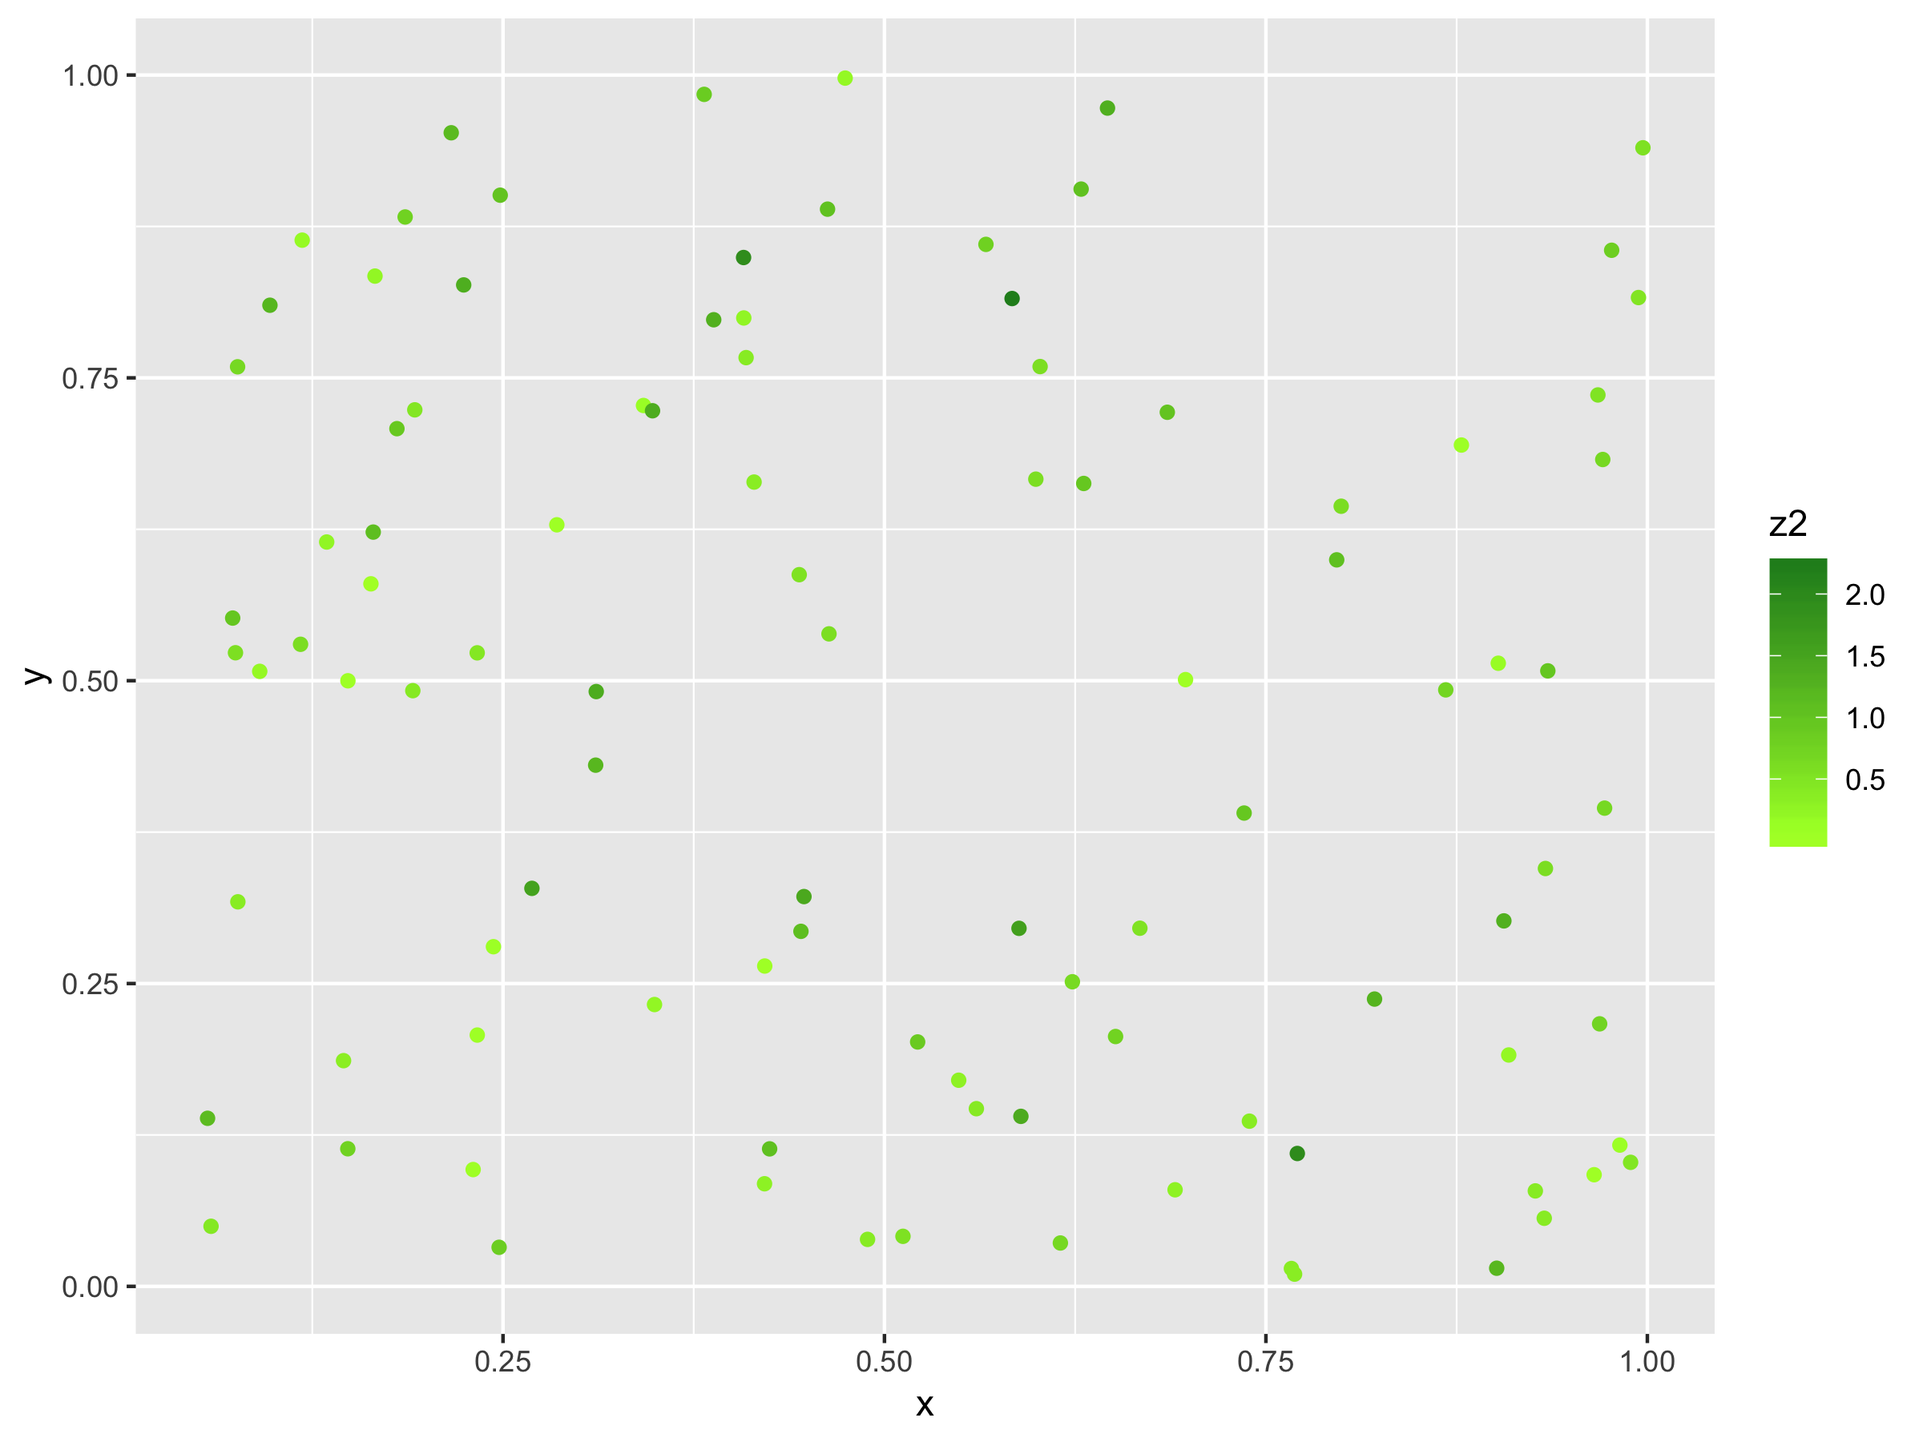
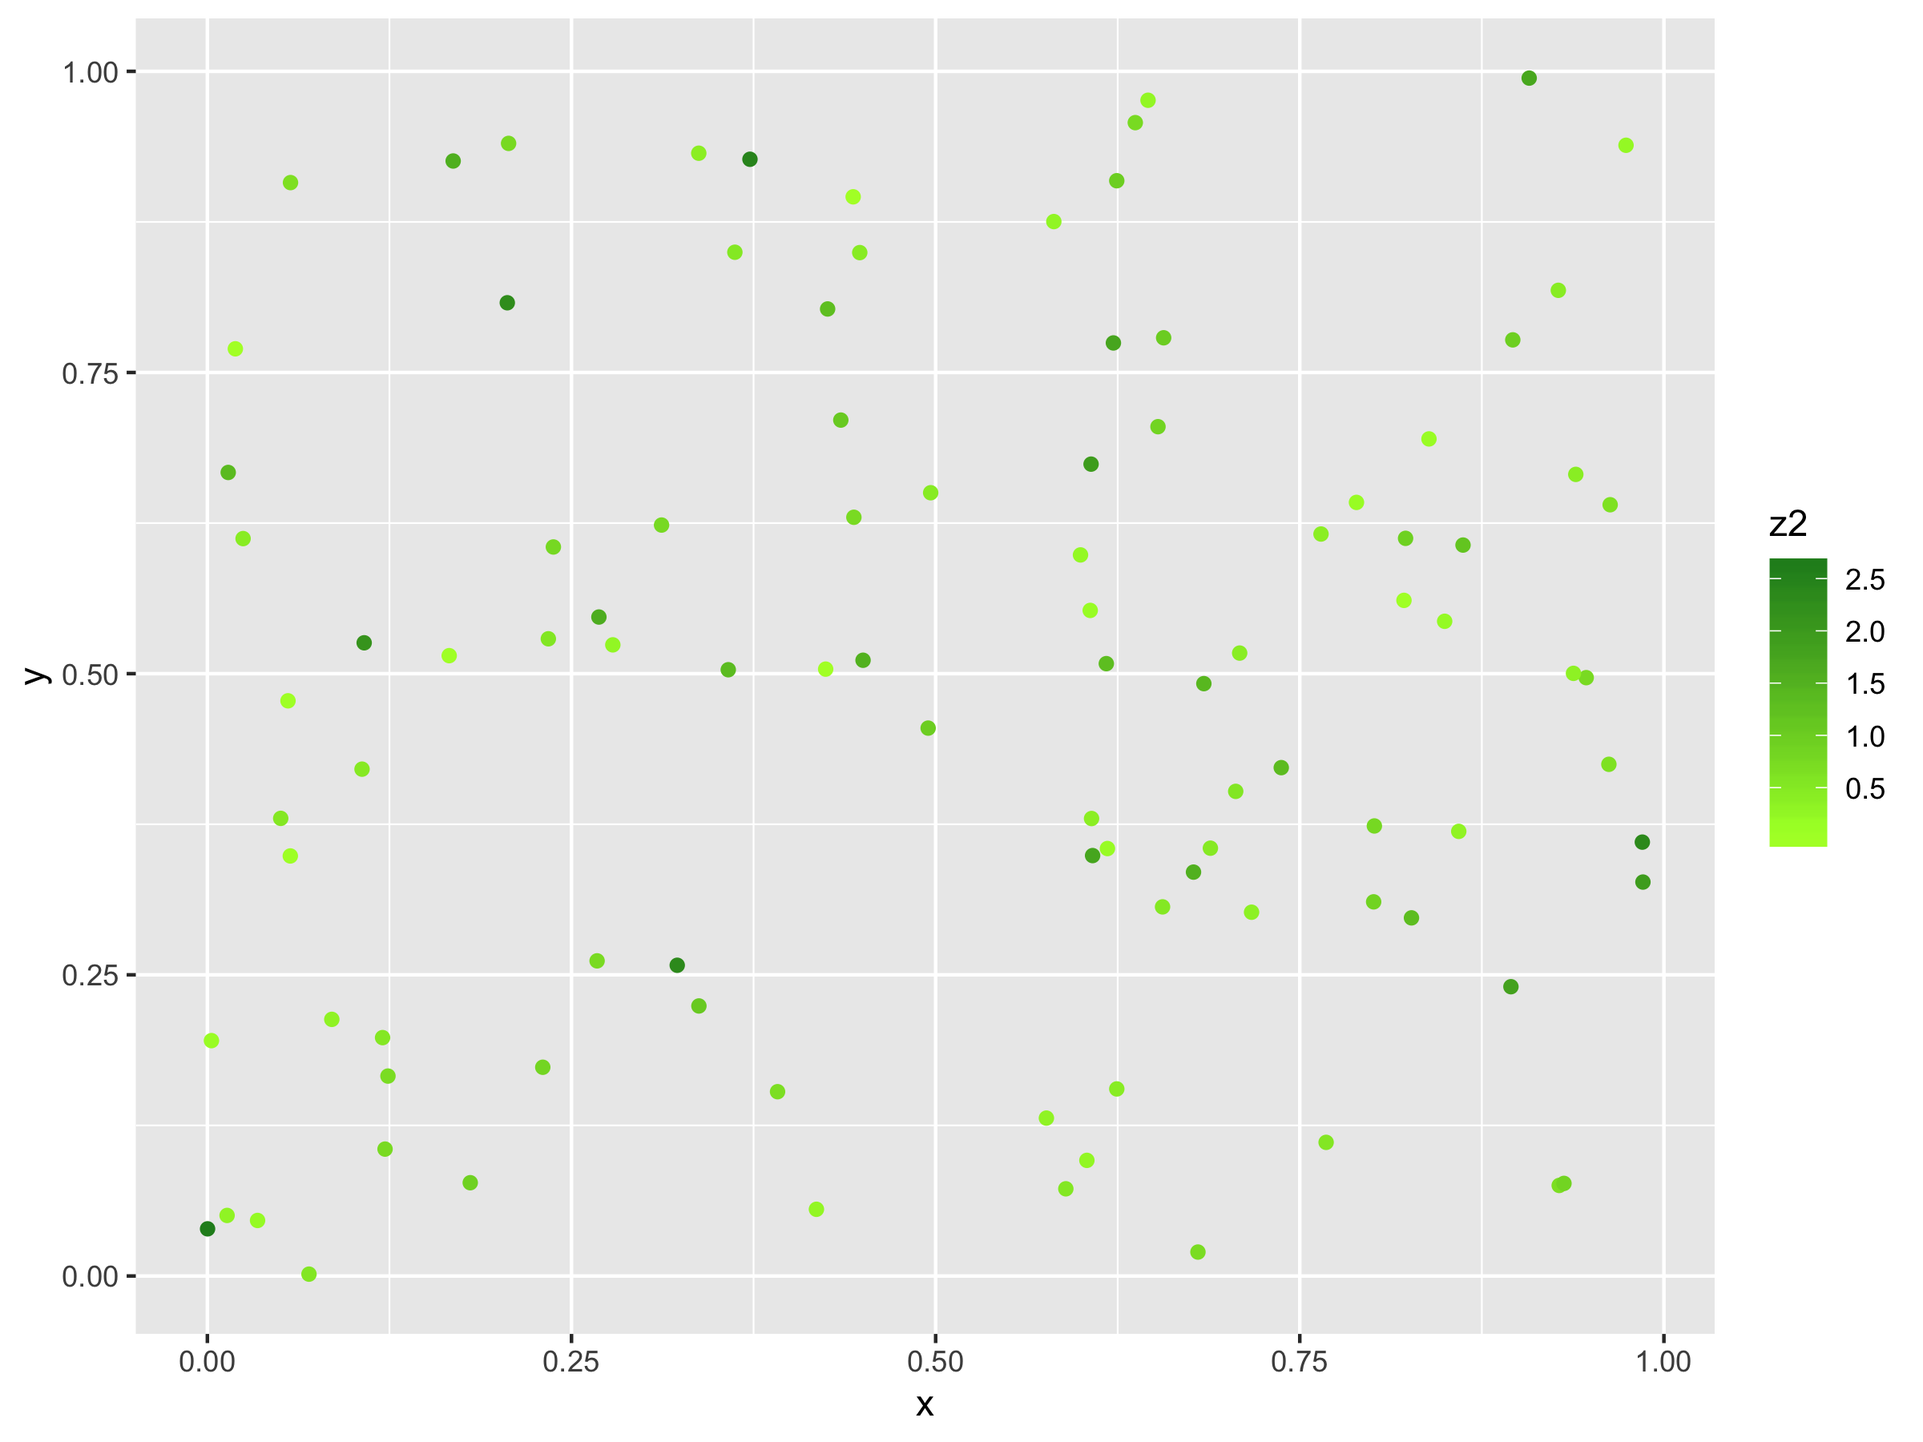
Updating style of ggplot text

diff --git a/content/blog/20190416_ggplot_colors.md b/content/blog/20190416_ggplot_colors.md
@@ -11,16 +11,16 @@ summary: In this guide, you'll learn how to incorporate your own custom color pa
 
 
 
-Once you've figured out how to create the standard [scatter plots](https://michaeltoth.me/a-detailed-guide-to-the-ggplot-scatter-plot-in-r.html), [bar charts](https://michaeltoth.me/detailed-guide-to-the-bar-chart-in-r-with-ggplot.html), and [line graphs](https://michaeltoth.me/a-detailed-guide-to-plotting-line-graphs-in-r-using-ggplot-geom_line.html) in ggplot, the next step to really elevate your graphs is to master working with color.
+Once you've figured out how to create the standard [scatter plots](https://michaeltoth.me/a-detailed-guide-to-the-ggplot-scatter-plot-in-r.html), [bar charts](https://michaeltoth.me/detailed-guide-to-the-bar-chart-in-r-with-ggplot.html), and [line graphs](https://michaeltoth.me/a-detailed-guide-to-plotting-line-graphs-in-r-using-ggplot-geom_line.html) in `ggplot`, the next step to really elevate your graphs is to master working with color.
 
 Strategic use of color can really help your graphs to stand out and [make an impact](https://michaeltoth.me/10-steps-to-better-graphs-in-r.html).
 
-In this guide, you'll learn how to incorporate your own custom color palettes into your graphs by modifying the base ggplot colors.
+In this guide, you'll learn how to incorporate your own custom color palettes into your graphs by modifying the base `ggplot` colors.
 
 ## By the end of this tutorial, you’ll know how to:
 
 * Change all items in a graph to a static color of your choice
-* Differentiate between setting a static color and mapping a variable in your data to a color palette so that each color represents a different level of the variable
+* Differentiate between **setting a static color** and **mapping a variable in your data to a color palette** so that each color represents a different level of the variable
 * Customize your own continuous color palettes using the `scale_color_gradient`, `scale_fill_gradient`, `scale_color_gradient2`, and `scale_fill_gradient2` functions
 * Customize your own color palettes for categorical data using the `scale_color_manual` and `scale_fill_manual` functions
 
@@ -28,7 +28,7 @@ In this guide, you'll learn how to incorporate your own custom color palettes in
 
 I'm also excited to try something new in this guide! I'll be adding video tutorials to accompany the content, so please let me know what you think about these and if you find them helpful. I'd love to do more of this in the future if you find them valuable!
 
-## Get my free workbook to build a deeper understanding of ggplot colors!
+## Get my free workbook to build a deeper understanding of `ggplot` colors!
 
 Have you ever read a tutorial or guide, learned a bunch of interesting things, only to forget them shortly after you finish reading? 
 
@@ -38,11 +38,11 @@ Unfortunately, our brains aren't good at remembering what we read. We need to th
 
 That's why I've created a free workbook to accompany this post. The workbook is an R file that includes additional questions and exercises to help you engage with this material. 
 
-[Get your free workbook to master working with colors in ggplot](https://mailchi.mp/2c40b4d25a09/ggplot-colors)
+[Get your free workbook to master working with colors in `ggplot`](https://mailchi.mp/2c40b4d25a09/ggplot-colors)
 
-## A high-level overview of ggplot colors
+## A high-level overview of `ggplot` colors
 
-By default, ggplot graphs use a black color for lines and points and a gray color for shapes like the rectangles in bar graphs.
+By default, `ggplot` graphs use a black color for lines and points and a gray color for shapes like the rectangles in bar graphs.
 
 Sometimes this is fine for your purposes, but often you'll want to modify these colors to something different. 
 
@@ -74,30 +74,30 @@ ggplot(mpg) +
 
 Side note: technically you can also use the `color` attribute to change the outline of shapes like bars in a bar graph. I use this functionality very rarely, and for the sake of simplicity I will not go into this in further detail in this guide.
 
-Except for the difference in naming, `color` and `fill` operate very similarly in ggplot. As you'll see, the functions that exist for modifying your ggplot colors all come in both `color` and `fill` varieties. But before we get to modifying the colors in your graphs, there's one other thing we need to touch on first.
+Except for the difference in naming, `color` and `fill` operate very similarly in `ggplot`. As you'll see, the functions that exist for modifying your `ggplot` colors all come in both `color` and `fill` varieties. But before we get to modifying the colors in your graphs, there's one other thing we need to touch on first.
 
-## Modifying ggplot colors: static color vs. color mapping
+## Modifying `ggplot` colors: static color vs. color mapping
 
 <iframe align="middle" width="560" height="315" src="https://www.youtube.com/embed/c7Smep_qXfA" frameborder="0" allow="accelerometer; autoplay; encrypted-media; gyroscope; picture-in-picture" allowfullscreen></iframe>
 
-We need to distinguish between two different ways of modifying colors in a ggplot graph. The two things we can do are:
+We need to distinguish between two different ways of modifying colors in a `ggplot` graph. The two things we can do are:
 
 1. *setting a static color* for our entire graph
 2. *mapping a variable to a color* so each level of the variable is a different color in our graph
 
 In the earlier examples, we used a static color (red) to modify all of the points and bars in the two graphs that we created. 
 
-It's often the case, however, that we want to use color to convey additional information in our graph. Usually, we do this by mapping a variable in our dataset to the `color` or `fill` aesthetic, which tells ggplot to use a different color for each level of that variable in the data. 
+It's often the case, however, that we want to use color to convey additional information in our graph. Usually, we do this by mapping a variable in our dataset to the `color` or `fill` aesthetic, which tells `ggplot` to use a different color for each level of that variable in the data. 
 
 Setting a static color is pretty straightforward, and you can use the two examples above as references for how to accomplish that. 
 
-In the rest of this guide, I'm going to show you how you can map variables in your data to colors in your graph. You'll learn about the different functions in ggplot to set your own color palettes and how they differ for continuous and categorical variables.
+In the rest of this guide, I'm going to show you how you can map variables in your data to colors in your graph. You'll learn about the different functions in `ggplot` to set your own color palettes and how they differ for continuous and categorical variables.
 
 ## Working with Color Palettes for Continuous Data
 
 <iframe align="middle" width="560" height="315" src="https://www.youtube.com/embed/7cQqA5ibXj4" frameborder="0" allow="accelerometer; autoplay; encrypted-media; gyroscope; picture-in-picture" allowfullscreen></iframe>
 
-Let's start with a simple example of the default continuous color palette in ggplot. First, we'll generate some random data that we'll use for our graph.
+Let's start with a simple example of the default continuous color palette in `ggplot`. First, we'll generate some random data that we'll use for our graph.
 
 
 ```r
@@ -109,9 +109,9 @@ df <- data.frame(
 )
 ```
 
-#### On sequential color scales and ggplot colors
+#### On sequential color scales and `ggplot` colors
 
-When we map a continuous variable to a color scale, we map the values for that variable to a color gradient. You can see the default ggplot color gradient below. 
+When we map a continuous variable to a color scale, we map the values for that variable to a color gradient. You can see the default `ggplot` color gradient below. 
 
 <center>
 ![Sequential color gradient from dark to light blue](../images/20190416_ggplot_colors/gradient_1.png){width=600px}
@@ -134,15 +134,15 @@ g1
 
 <img src="/figures/20190416_ggplot_colors/default_continuous-1.png" title="center" alt="center" style="display: block; margin: auto;" />
 
-Note the contrast between this syntax and the syntax before where we set a static color for our graph. Here, we aren't specifying the color to use, we're simply telling ggplot to map the `z2` variable to the color aesthetic by including the mapping `color = z2` within the `aes` function. 
+Note the contrast between this syntax and the syntax before where we set a static color for our graph. Here, we aren't specifying the color to use, we're simply telling `ggplot` to map the `z2` variable to the color aesthetic by including the mapping `color = z2` within the `aes` function. 
 
-In the dataset that I created, the minimum value for the `z2` variable is 0.0087342, while the maximum value is 2.2301045. All values--and therefore all colors--fall between these minimum and maximum levels. 
+In the dataset that I created, the minimum value for the `z2` variable is 0.0024422, while the maximum value is 2.6241346. All values--and therefore all colors--fall between these minimum and maximum levels. 
 
-#### Modifying our ggplot colors for continuous data using scale_color_gradient
+#### Modifying our `ggplot` colors for continuous data using scale_color_gradient
 
-Now that you understand how ggplot can map a continuous variable to a sequential color gradient, let's go into more detail on how you can modify the specific colors used within that gradient. 
+Now that you understand how `ggplot` can map a continuous variable to a sequential color gradient, let's go into more detail on how you can modify the specific colors used within that gradient. 
 
-Instead of the default blue gradient that ggplot uses, we can use any color gradient we want! To modify the colors used in this scale, we'll be using the `scale_color_gradient` function to modify our ggplot colors.
+Instead of the default blue gradient that `ggplot` uses, we can use any color gradient we want! To modify the colors used in this scale, we'll be using the `scale_color_gradient` function to modify our `ggplot` colors.
 
 Side note: if we were instead graphing bars or other fillable shapes, we would use the `scale_fill_gradient` function. For brevity, I won't be including an example of this function. It operates in exactly the same way as the `scale_color_gradient` function, so you can easily modify this code to work for filling graphs with color as well.
 
@@ -158,9 +158,9 @@ g1 +
 
 By modifying the values you're passing to the `scale_color_gradient` function, you can create a sequential color scale between any two colors! 
 
-Under the hood, ggplot was already using this color scale with the dark blue and light blue colors that show up by default. By adding this color scale to the graph and specifying your own colors, you're simply overriding the default values that ggplot was already using.
+Under the hood, `ggplot` was already using this color scale with the dark blue and light blue colors that show up by default. By adding this color scale to the graph and specifying your own colors, you're simply overriding the default values that `ggplot` was already using.
 
-#### On diverging gradient scales and ggplot colors
+#### On diverging gradient scales and `ggplot` colors
 
 Sequential color scales are great when you want to easily differentiate between low and high values in a dataset.
 
@@ -197,19 +197,19 @@ When working with continuous data, each value in your dataset was automatically 
 
 When working with categorical data, each distinct level in your dataset will be mapped to a distinct color in your graph. With categorical data, the goal is to have highly differentiated colors so that you can easily identify data points from each category.
 
-There are built-in functions within ggplot to generate categorical color palettes. That said, I've always preferred the control I get from generating my own, and that's what I'm going to show you how to do here.
+There are built-in functions within `ggplot` to generate categorical color palettes. That said, I've always preferred the control I get from generating my own, and that's what I'm going to show you how to do here.
 
 #### My favorite tool for building categorical color palette: Color Picker for Data
 
 <iframe align="middle" width="560" height="315" src="https://www.youtube.com/embed/QBROdDKzQoY" frameborder="0" allow="accelerometer; autoplay; encrypted-media; gyroscope; picture-in-picture" allowfullscreen></iframe>
 
-My favorite way of generating beautiful color palettes is to use Tristen Brown's tool [Color Picker for Data](http://tristen.ca/hcl-picker/#/hlc/6/1.05/603548/D4E966). It offers an intuitive visual interface to build and export a color palette that you can use directly within ggplot.
+My favorite way of generating beautiful color palettes is to use Tristen Brown's tool [Color Picker for Data](http://tristen.ca/hcl-picker/#/hlc/6/1.05/603548/D4E966). It offers an intuitive visual interface to build and export a color palette that you can use directly within `ggplot`.
 
-#### Mapping Categorical Data to Color in ggplot
+#### Mapping Categorical Data to Color in `ggplot`
 
 <iframe align="middle" width="560" height="315" src="https://www.youtube.com/embed/h8dn6nbCznQ" frameborder="0" allow="accelerometer; autoplay; encrypted-media; gyroscope; picture-in-picture" allowfullscreen></iframe>
 
-For this example, we'll be working with the mtcars dataset. We're going to create a scatter plot of weight and miles per gallon. Then, we'll use the color aesthetic to map 4-, 6-, and 8-cylinder engines each to a different color using the default ggplot colors:
+For this example, we'll be working with the mtcars dataset. We're going to create a scatter plot of weight and miles per gallon. Then, we'll use the color aesthetic to map 4-, 6-, and 8-cylinder engines each to a different color using the default `ggplot` colors:
 
 
 ```r
@@ -221,13 +221,13 @@ g2
 
 <img src="/figures/20190416_ggplot_colors/categorical_colors-1.png" title="center" alt="center" style="display: block; margin: auto;" />
 
-Similar to how we worked with categorical data, we simply map a variable to the color aesthetic by including the code `color = your_variable` within the `aes` function of your `geom`. 
+Similar to how we worked with categorical data, we simply map a variable to the color aesthetic by including the code `color = your_variable` within the `aes` function of our `geom_point` call. 
 
 The one caveat is that here we're converting the `cyl` variable to a factor before we do this mapping. Because `cyl` is recorded as a numerical variable, it will by default map to the color gradients we saw before, which isn't what we want in this case, as we're treating `cyl` as a categorical variable with 3 levels. Remember, just because a variable happens to have numeric values does not necessarily mean it should be mapped as a continuous scale! 
 
 We know how we can map a categorical variable to the color aesthetic to produce different colors in our graph for each level in our dataset. How can we modify those colors to a color palette of our choice? 
 
-#### Modifying our ggplot colors for categorical data using scale_color_manual
+#### Modifying our `ggplot` colors for categorical data using scale_color_manual
 
 Once you have your color palette, you can use the `scale_color_manual` function to map the levels in your dataset to different colors in your generated color palette.
 
@@ -247,14 +247,14 @@ g2 +
 
 <img src="/figures/20190416_ggplot_colors/scale_color_manual-1.png" title="center" alt="center" style="display: block; margin: auto;" />
 
-## A Summary of Working with ggplot Colors
+## A Summary of Working with `ggplot` Colors
 
-Congratulations! You know know how to work with colors in your ggplot graphs.
+Congratulations! You know know how to work with colors in your `ggplot` graphs.
 
 In this guide, you learned:
 
 * How to change all items in a graph to a static color of your choice
-* To distinguish between two ways of modifying color in your ggplot graph:
+* To distinguish between two ways of modifying color in your `ggplot` graph:
     1. Setting a static color for all elements in your graph 
     2. Mapping a variable in your data to a color palette so that each color represents a different level of the variable
 * How you can customize your sequential color scales using the `scale_color_gradient` and `scale_fill_gradient` functions for continuous data
@@ -263,8 +263,8 @@ In this guide, you learned:
 
 ## Don't Forget to Practice!
 
-Right now, you should have a pretty good understanding of how you can work with and modify the colors in your ggplot graphs. But if you don't practice, you're going to forget this stuff! 
+Right now, you should have a pretty good understanding of how you can work with and modify the colors in your `ggplot` graphs. But if you don't practice, you're going to forget this stuff! 
 
 That's why I've created a free workbook that you can use to apply what you've learned in this guide. The workbook is an R file that includes additional questions and exercises to help you engage with this material. 
 
-[Get your free workbook to master working with colors in ggplot](https://mailchi.mp/2c40b4d25a09/ggplot-colors)
+[Get your free workbook to master working with colors in `ggplot`](https://mailchi.mp/2c40b4d25a09/ggplot-colors)
